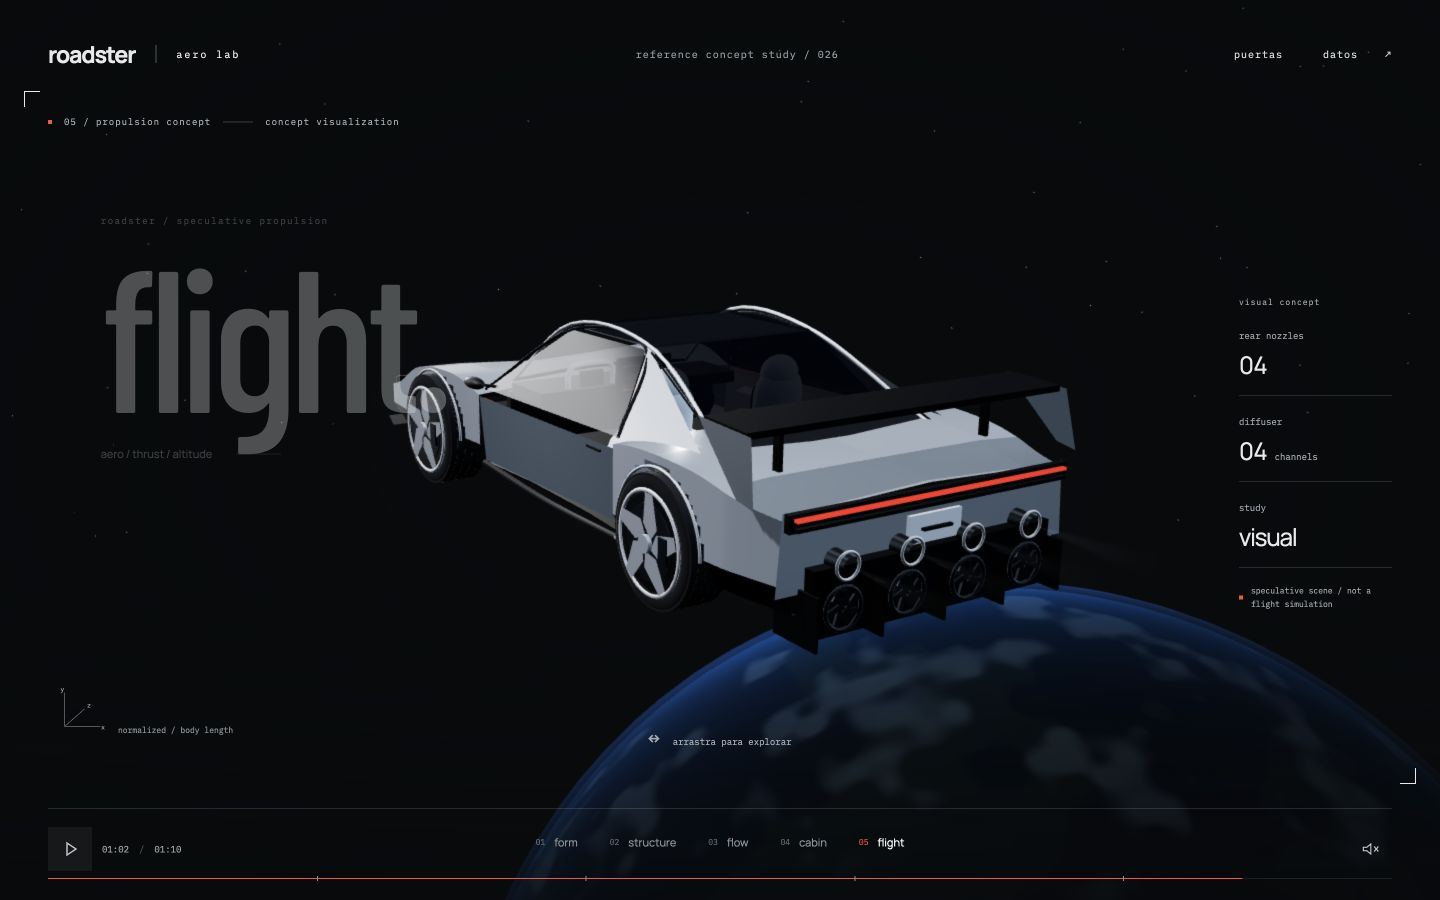
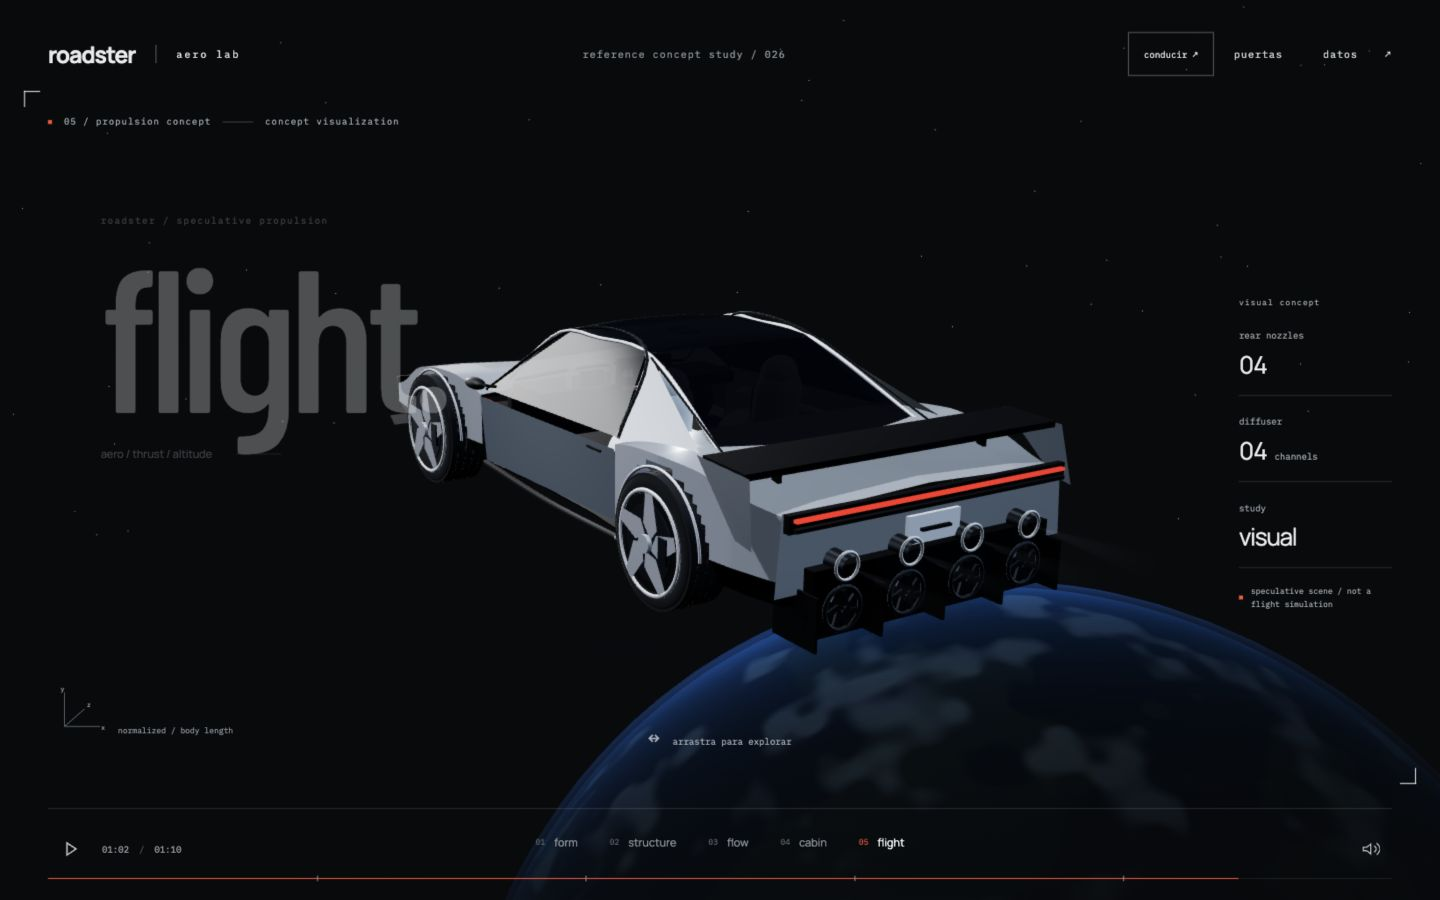
documenta conducción y actualiza capturas reales

diff --git a/README.md b/README.md
@@ -1,6 +1,6 @@
 # roadster aero lab
 
-reconstrucción tridimensional de un concepto roadster a partir de las imágenes y el vídeo de referencia proporcionados. una secuencia continua de 70 segundos con carrocería en cuña, puertas elevables, habitáculo y aerodinámica visual.
+reconstrucción tridimensional de un concepto roadster a partir de imágenes y vídeo de referencia. incluye una secuencia de 70 segundos y un circuito conducible con cámara pov, física aproximada y audio reactivo.
 
 [ver sitio](https://kisnner26.github.io/roadster-aero-lab/)
 
@@ -14,6 +14,11 @@ reconstrucción tridimensional de un concepto roadster a partir de las imágenes
 - iluminación de estudio, sombras, malla técnica y proporciones proyectadas en 3d
 - líneas de corriente y partículas animadas mediante shaders
 - yoke, pantalla central, asientos claros y revestimiento interior
+- cúpula de cristal curvada, cintura más estrecha y alerón retráctil
+- conducción con aceleración, frenado regenerativo, reversa, agarre limitado y menor tracción sobre grava
+- pov desde el asiento del conductor y cámara exterior; tablero, mapa y contador de vueltas
+- motor eléctrico sintetizado, viento, rodadura y derrape ligados al estado del coche
+- circuito con texturas locales, cielo hdr, guardarraíles y controles táctiles
 - tierra procedural, estrellas y una escena especulativa de propulsión
 - cámaras continuas, exploración táctil, navegación y línea de tiempo
 - sonido ambiental opcional, movimiento reducido y pausa al ocultar la pestaña
@@ -21,9 +26,13 @@ reconstrucción tridimensional de un concepto roadster a partir de las imágenes
 
 ![campo de flujo cualitativo](public/assets/roadster-flow.jpg)
 
+![conducción desde el asiento](public/assets/roadster-driving-pov.jpg)
+
 ## controles
 
 arrastra para orbitar. selecciona un capítulo o arrastra la línea de tiempo para buscar un instante. el botón `puertas` abre o cierra ambos paneles. espacio pausa o reproduce; las flechas y la rueda cambian de capítulo. el sonido comienza únicamente al activarlo.
+
+pulsa `conducir` para entrar al circuito y activar el audio. `w` / `↑` acelera, `s` / `↓` frena y `a` / `d` gira. espacio acciona el freno de mano; `c` cambia de cámara, `r` selecciona reversa al detenerte, `p` pausa, `t` reinicia y escape vuelve al estudio. en móvil hay dirección y pedales para mantener pulsados. arrastra la vista para mirar a los lados desde el asiento. la conducción se pausa al perder el foco o esconder la pestaña.
 
 ![habitáculo reconstruido](public/assets/roadster-cabin.jpg)
 
@@ -38,19 +47,24 @@ validación:
 
 ```bash
 npm run check
+npm test
 npm run build
 ```
 
 ## fuentes
 
-- cuatro imágenes de referencia aportadas por el usuario: frontal con puertas abiertas, tres cuartos trasero, trasera e interior
+- cinco imágenes de referencia aportadas por el usuario: frontal con puertas abiertas, tres cuartos trasero, trasera, interior y vista superior
 - [vídeo de referencia proporcionado](https://www.youtube.com/shorts/oCvC70oIS5w)
 - [tesla roadster oficial](https://www.tesla.com/roadster)
 
-three.js, gsap y vite. la geometría, las cámaras y los shaders se evalúan desde un tiempo absoluto, permitiendo saltar entre instantes sin acumular simulación.
+three.js, gsap, web audio y vite. el estudio se evalúa desde un tiempo absoluto. la conducción usa un modelo de bicicleta con pasos fijos de 1/120 s, resistencia aerodinámica, regeneración y límites de agarre. los sonidos se sintetizan en el navegador; no son grabaciones del vehículo real.
+
+el cielo y las texturas de [poly haven](https://polyhaven.com/) son cc0; fuentes y licencias en [créditos del entorno](public/assets/driving/CREDITS.md). todos los recursos se sirven desde este repositorio.
 
 proyecto independiente no afiliado a tesla ni spacex. no se ha confirmado que el diseño de las referencias sea oficial. la geometría es una interpretación visual, no un cad de fabricación.
 
 las proporciones se normalizan a la longitud de la carrocería (`l`): longitud `1.000 l`, batalla `0.600 l`, ancho `0.440 l` y altura con puertas cerradas `0.262 l`. son estimaciones del modelo, no dimensiones físicas certificadas. no se reutilizan las cotas del roadster de primera generación para esta carrocería. el flujo es cualitativo, no cfd; la propulsión y la escena espacial son especulativas, no una recreación de la misión de 2018.
+
+la conducción busca una respuesta creíble, pero sus parámetros, prestaciones y circuito son ilustrativos y no están validados por tesla. el agua, los árboles y los guardarraíles usan colisiones simplificadas; no se simulan daños ni suspensión independiente por rueda.
 
 las fuentes barlow condensed, ibm plex mono y manrope se distribuyen con sus licencias sil open font license en `public/fonts`.
